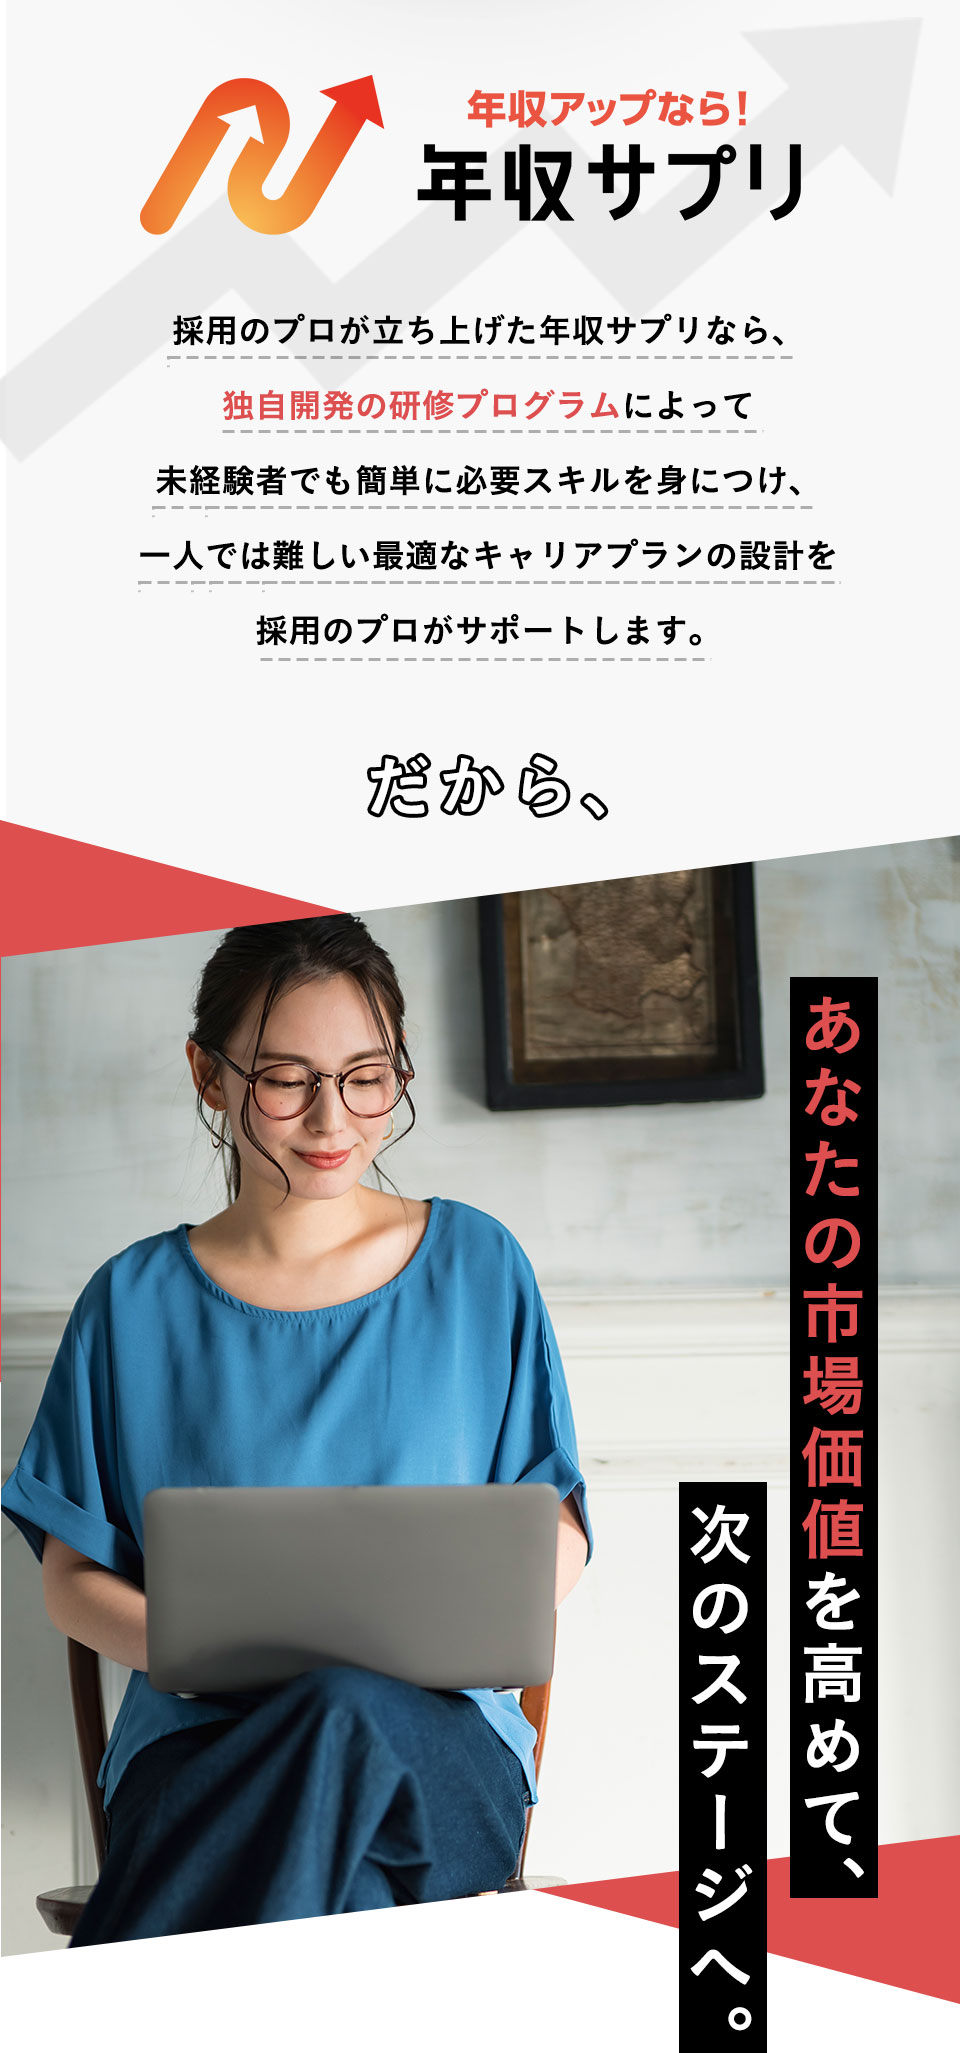
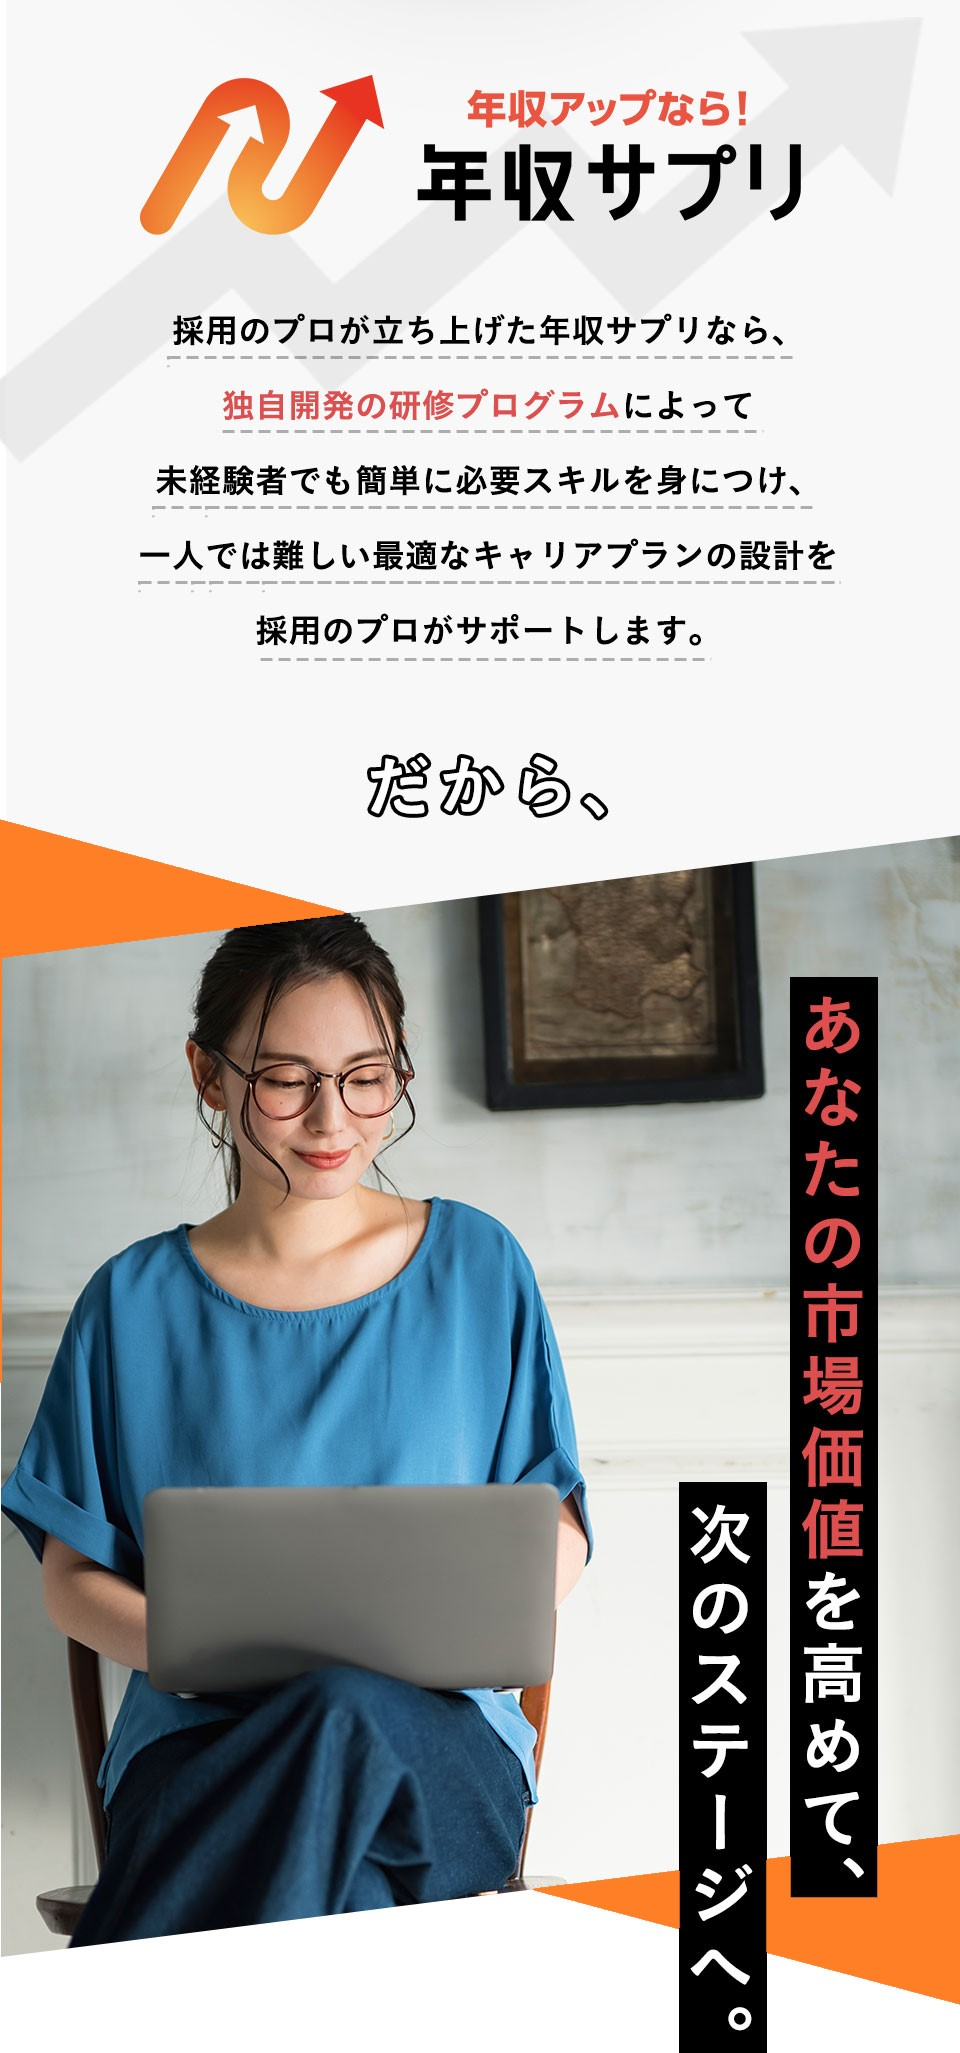
img

diff --git a/lp/index.html b/lp/index.html
@@ -6,7 +6,7 @@
 <script type="text/javascript">if ((navigator.userAgent.indexOf('Android') > 0 && navigator.userAgent.indexOf('Mobile') == -1) || navigator.userAgent.indexOf('iPad') > 0){ document.write('<meta name="viewport" content="width=1280, user-scalable=yes">'); }else if ((navigator.userAgent.indexOf('iPhone') > 0 && navigator.userAgent.indexOf('iPad') == -1) || navigator.userAgent.indexOf('iPod') > 0 || (navigator.userAgent.indexOf('Android') > 0 && navigator.userAgent.indexOf('Mobile') > 0)){ document.write('<meta name="viewport" content="width=device-width, user-scalable=no, initial-scale=1, minimum-scale=1.0, maximum-scale=1.0">');}</script>
 <meta name="format-detection" content="telephone=no">
 <meta http-equiv="X-UA-Compatible" content="IE=edge">
-<title>年収サプリ</title>
+<title>Jobfull</title>
 <link rel="stylesheet" type="text/css" href="css/default.css">
 <link rel="stylesheet" type="text/css" href="css/animate.css">
 <link rel="stylesheet" type="text/css" href="css/index.css">
@@ -14,22 +14,18 @@
 <link rel="stylesheet" href="https://cdnjs.cloudflare.com/ajax/libs/Swiper/3.4.1/css/swiper.min.css">
 <script type="text/javascript" src="js/rick_anime.js"></script>
 <!-- Google Tag Manager -->
-<script>(function(w,d,s,l,i){w[l]=w[l]||[];w[l].push({'gtm.start':
-new Date().getTime(),event:'gtm.js'});var f=d.getElementsByTagName(s)[0],
-j=d.createElement(s),dl=l!='dataLayer'?'&l='+l:'';j.async=true;j.src=
-'https://www.googletagmanager.com/gtm.js?id='+i+dl;f.parentNode.insertBefore(j,f);
-})(window,document,'script','dataLayer','GTM-WW5W3PC');</script>
+
 <!-- End Google Tag Manager -->
 </head>
 
 <body>
 	<!-- Google Tag Manager (noscript) -->
-	<noscript><iframe src="https://www.googletagmanager.com/ns.html?id=GTM-WW5W3PC"	height="0" width="0" style="display:none;visibility:hidden"></iframe></noscript>
-	<!-- End Google Tag Manager (noscript) -->
+
+    <!-- End Google Tag Manager (noscript) -->
 	<div class="wrapper">
-		<div class="cv_area"><a href="https://lin.ee/UNNwqOG" target="_blank" class="cv_btn animated infinite pulse"><img src="images/cv_btn.png" width="950" height="211" alt="即日無料カウンセリング申し込み"/></a></div>
+		<div class="cv_area"><a href="https://lin.ee/" target="_blank" class="cv_btn animated infinite pulse"><img src="images/cv_btn.png" width="950" height="211" alt="即日無料カウンセリング申し込み"/></a></div>
 		<header>
-			<img src="images/fv.jpg" width="960" height="1961" alt="キャリアアップ（転職）に特化した年収サプリ"/>
+			<img src="images/fv.jpg" width="960" height="1961" alt="キャリアアップ（転職）に特化したJobfull"/>
 		</header>
 		<main>
 		<section class="review">
@@ -55,7 +51,7 @@ j=d.createElement(s),dl=l!='dataLayer'?'&l='+l:'';j.async=true;j.src=
 			<img src="images/trouble02.jpg" width="960" height="2465" alt="そうなる理由はわかりますか？それは市場価値の理解とスキルが足りないためです。"/>
 		</section>
 		<section class="comit">
-		 <img src="images/comit.jpg" width="960" height="3579" alt="年収サプリであなたの市場価値を高めて次のステージへ。"/>
+		 <img src="images/comit.jpg" width="960" height="3579" alt="Jobfullであなたの市場価値を高めて次のステージへ。"/>
 		</section>
 		<section class="step">
 			<img src="images/step_last.jpg" width="960" height="3020" alt="3ステップ"/>
@@ -71,7 +67,7 @@ j=d.createElement(s),dl=l!='dataLayer'?'&l='+l:'';j.async=true;j.src=
 		</section>
 		</main>
 		<footer>
-			<small>Copyright 年収サプリ All Rights Resreved.</small>
+			<small>Copyright Jobfull All Rights Resreved.</small>
 		</footer>
 	</div>
 <script src="https://cdnjs.cloudflare.com/ajax/libs/Swiper/3.4.1/js/swiper.min.js"></script>

diff --git a/lp/css/index.css b/lp/css/index.css
@@ -37,7 +37,7 @@ section.review {
 }
 
 .review_slide {
-    background: #dd4f4e;
+    background: #ff7f26;
     padding-bottom: 15%;
 }
 
